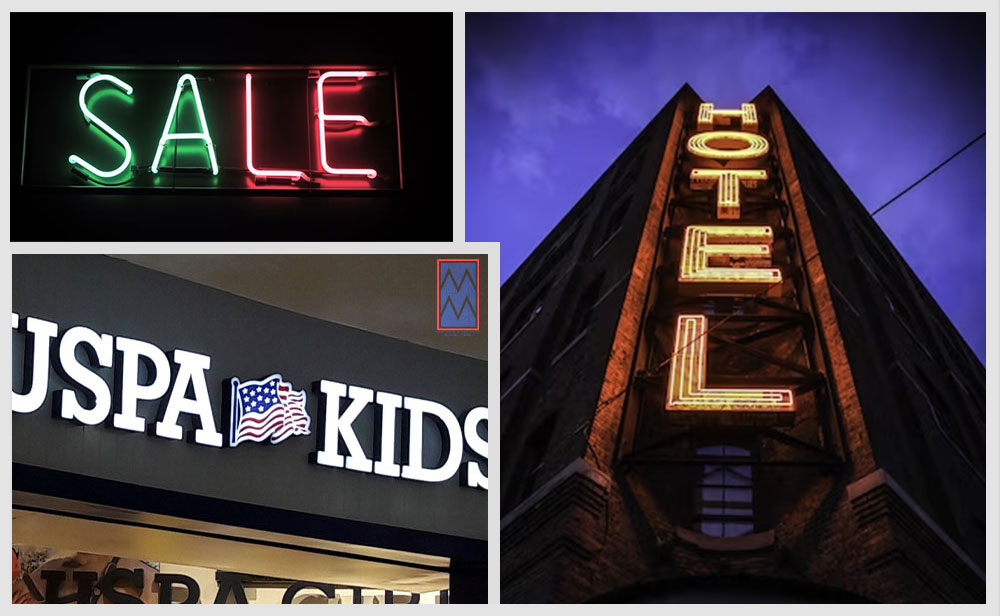
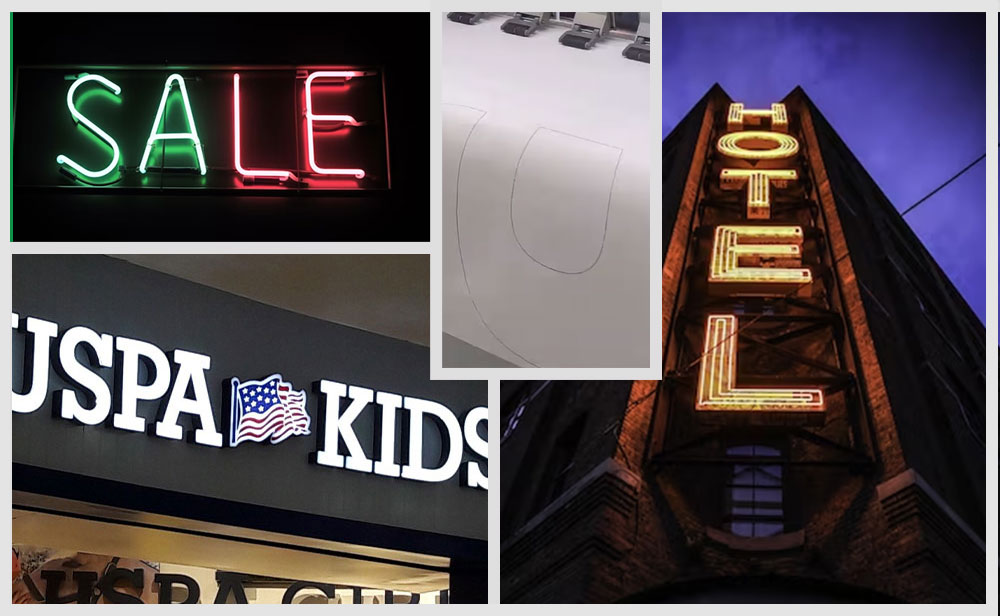
LED Sign Board updates
LED Sign Board updated.

diff --git a/LED_sign_board.html b/LED_sign_board.html
@@ -89,7 +89,7 @@
         <div class="row align-items-center">
           <div class="col-12 col-sm-12 col-md-6">
             <div class="print_mall_secn1">
-              <p>LED neon (faux-neon) signs such as NeonPlus<sup>&reg;</sup> use neither glass nor neon gas. Instead, they  made from acrylic a thermoplastic better known as Altuglas or Perspex  which is lightweight, shatter-resistant and effective at transmitting light. Acrylic has a tendency to have the best optical properties for most applications. It provides excellent light transmission, scatters LED hotspots, and is easy and inexpensive to manufacture.</p>
+              <p>LED neon (faux-neon) signs such as NeonPlus<sup>&reg;</sup> use neither glass nor neon gas. Instead, they  made from acrylic a thermoplastic better known as Altuglas or Perspex  which is lightweight, shatter-resistant and effective at transmitting light. Acrylic has a tendency to have the best optical properties for most applications. It provides excellent light transmission, scatters LED hotspots, and is easy and inexpensive to manufacture. Basically, laser engraved signs are engraving designs of your brand logo, name, etc. on a flat surface. The surface can made of any material (Acrylic, Correx, PVC, Aluminum, Glass, wooden, etc.), depending on your choice. The whole engraving process done by laser machine.</p>
               <p>LEDs consume much less power than incandescent bulbs, and this also applies to decorative LED lights such as Christmas tree lights.</p>
             </div>
           </div>
